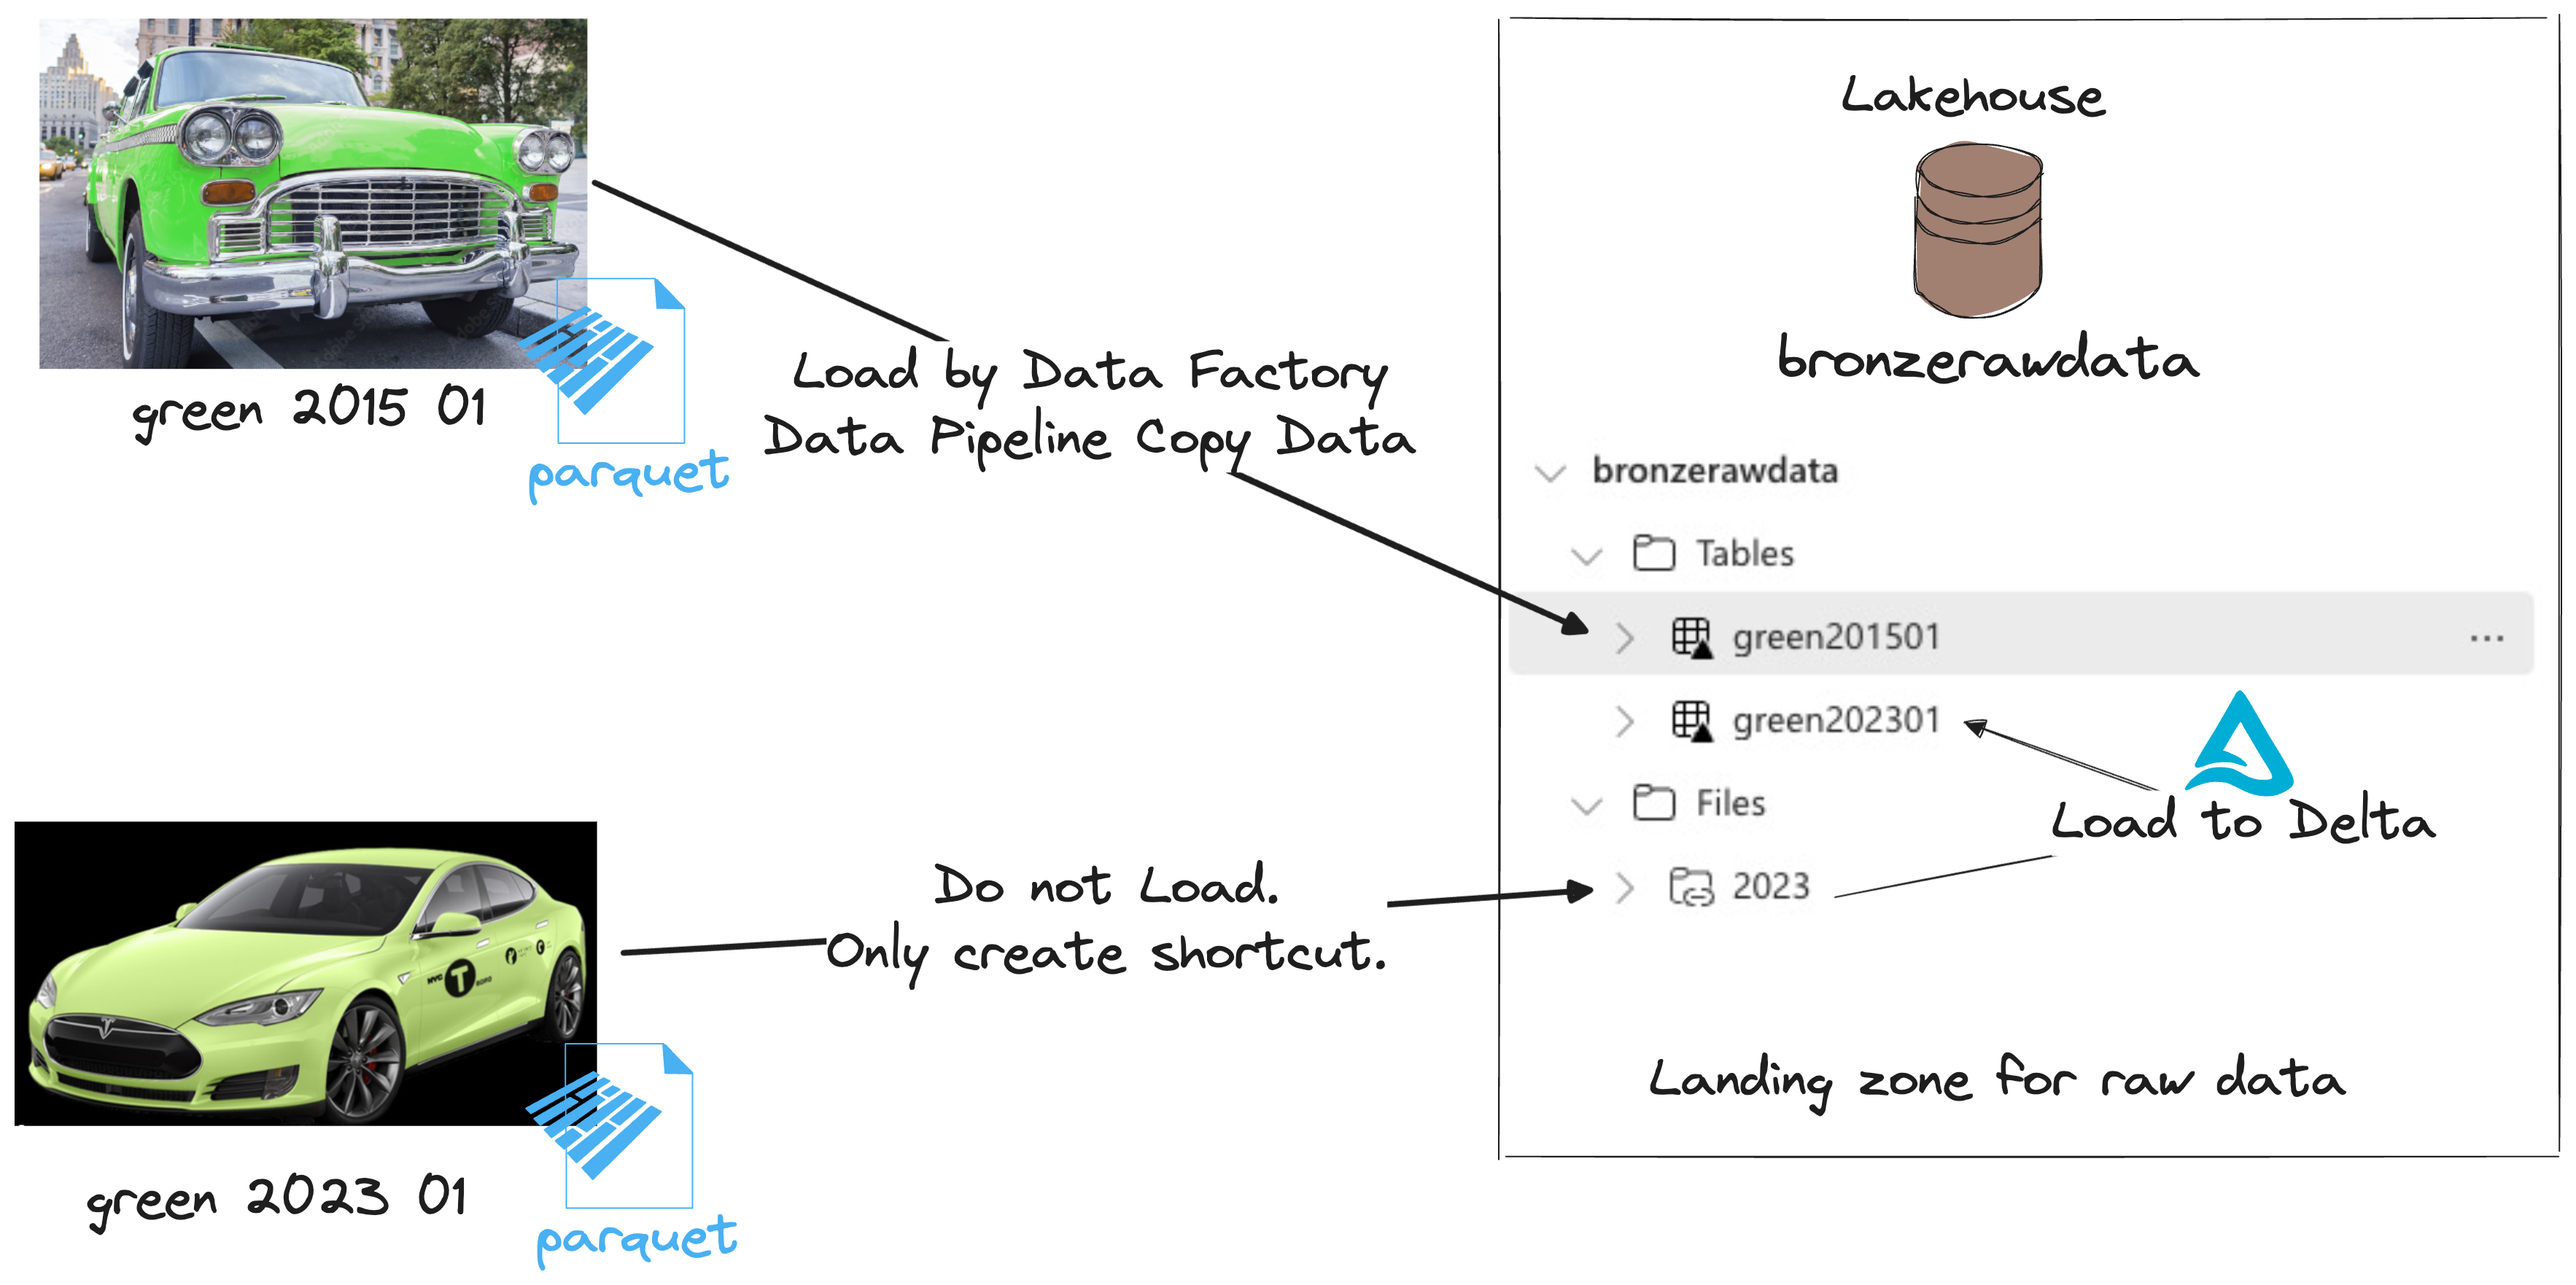
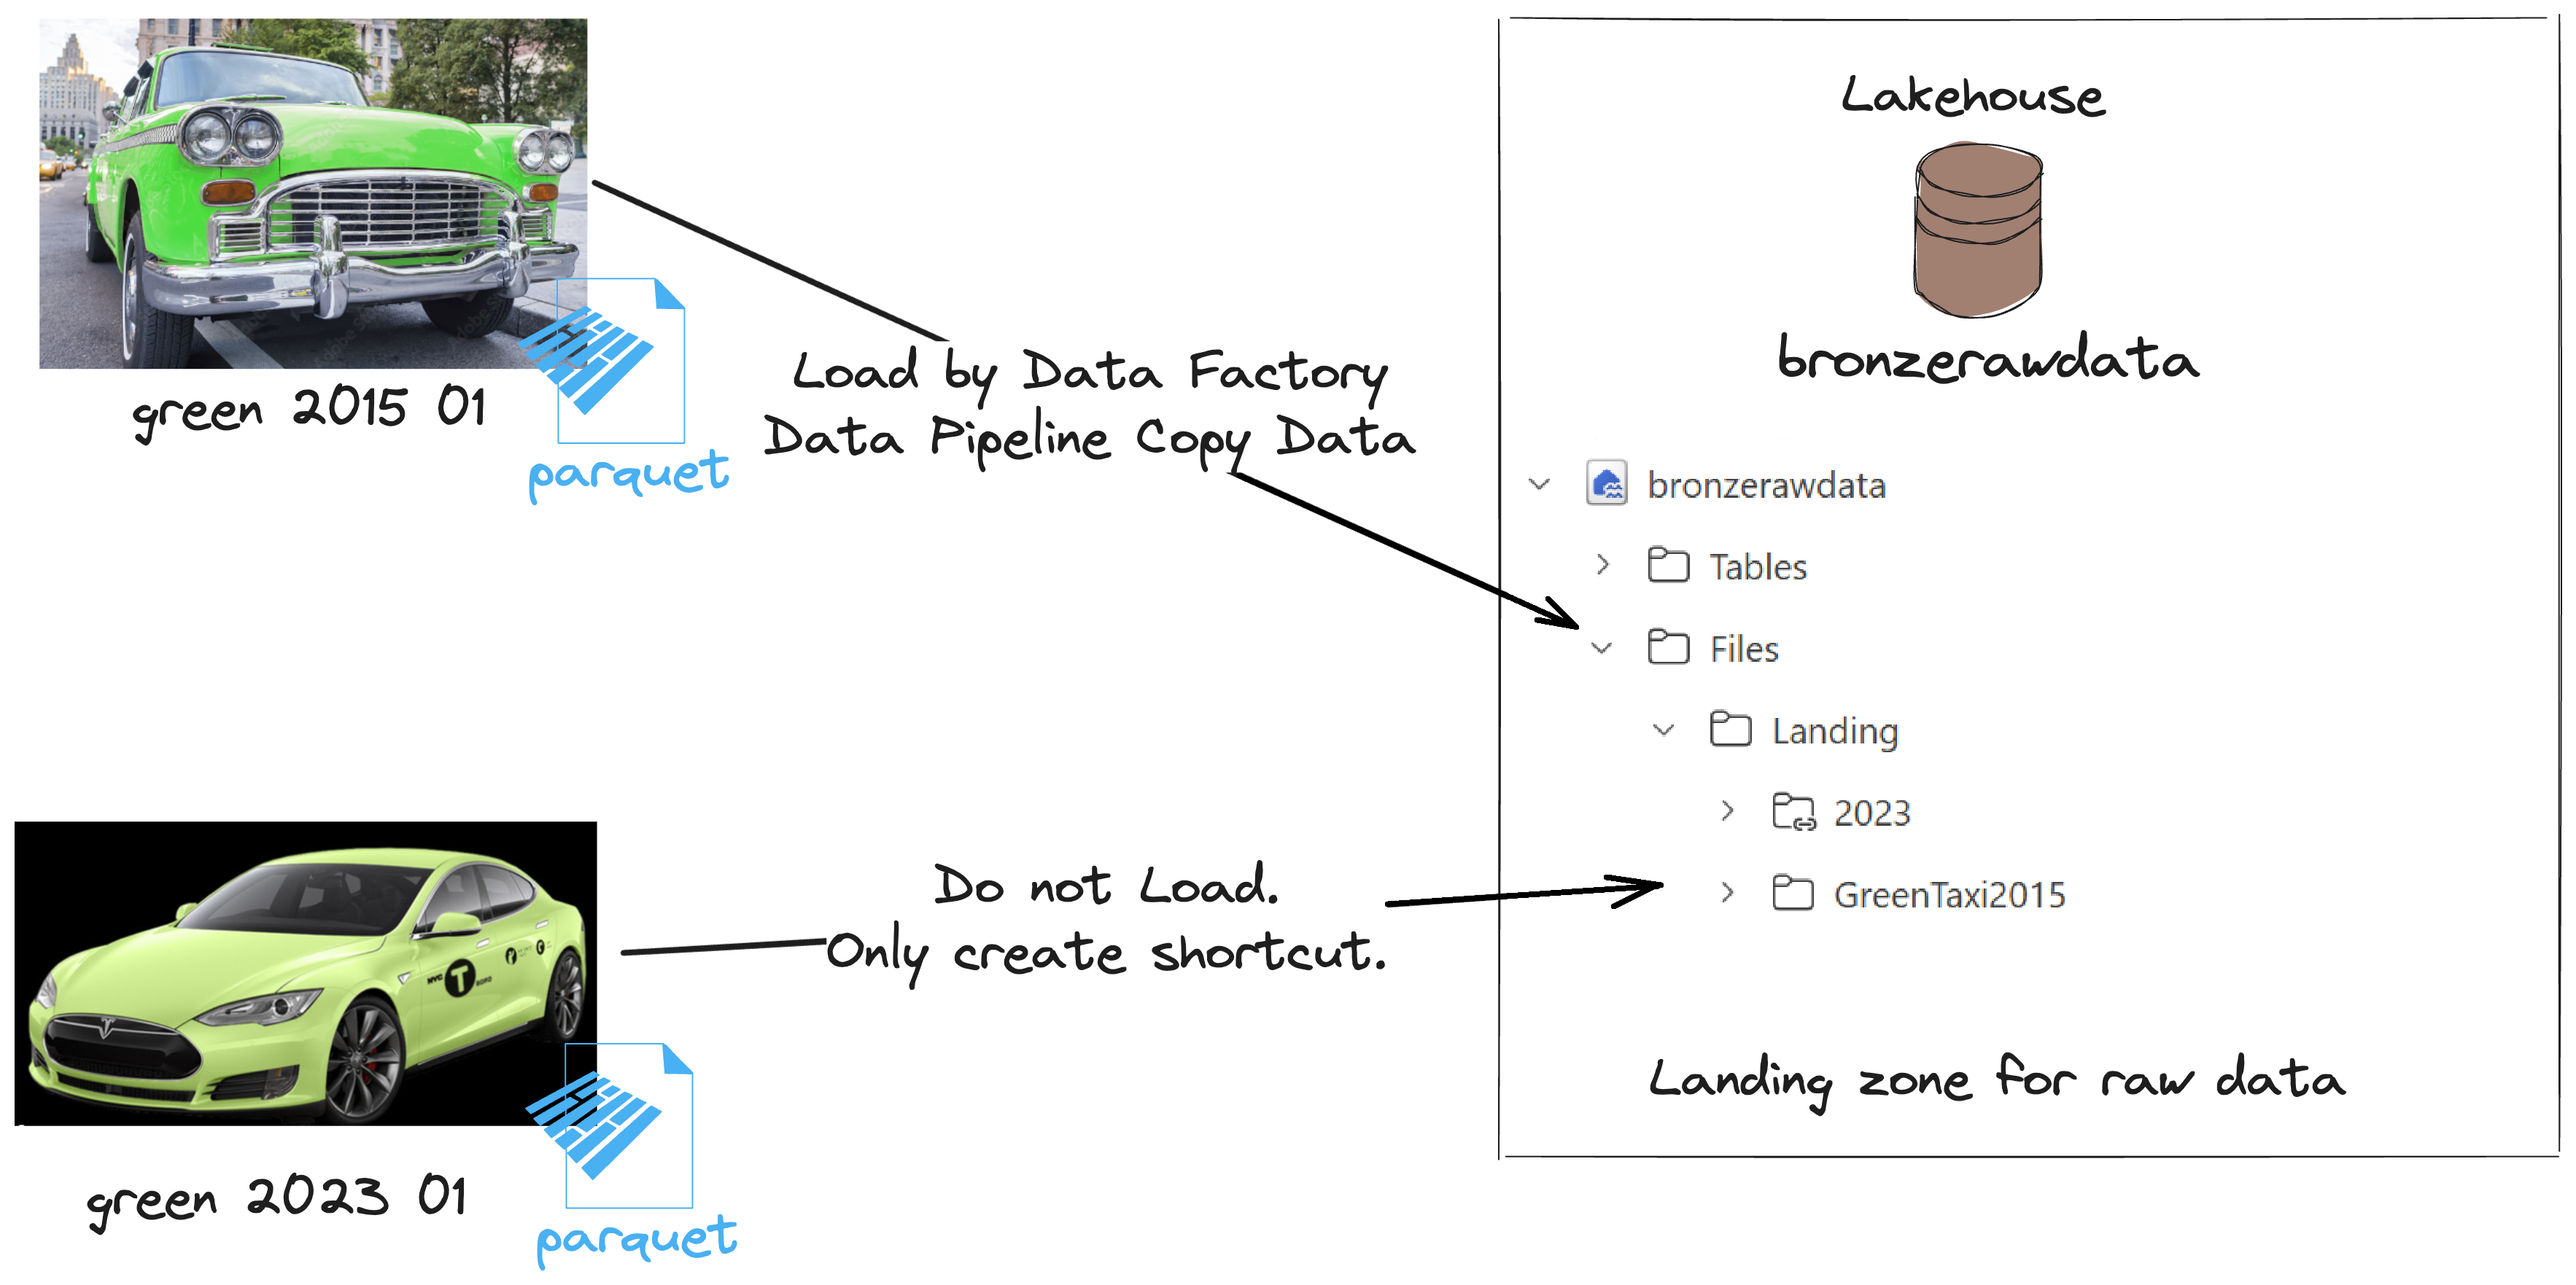
new adl and storage and no SAS anymore

diff --git a/challenges/ch02/README.md b/challenges/ch02/README.md
@@ -22,8 +22,8 @@ By the end of the challenge, you will have completed the first step, the bronze 
 
 - Create Pipeline: Ingest Green Taxi 2015
 	- With Copy Activity to Ingest Data:
-		- Source: Azure Blob Storage: https://stfabricmicrohacksw.blob.core.windows.net/ 
-			- Authentication kind Shared Access Signature (SAS): sv=2024-11-04&ss=b&srt=sco&sp=rlfx&se=2025-11-30T00:36:28Z&st=2025-10-06T15:21:28Z&spr=https&sig=AukZMGIOO%2BdjC%2BAbRmaNpGsg8jagziY0WimASjtiTZw%3D
+		- Source: Azure Blob Storage: https://stmsfabricmicrohacksw.blob.core.windows.net/
+			- Authentication kind: **Organizational account**
 			- File path: 
 				- Container: **taxidata**
 				- File: **green_tripdata_2015-01.parquet**
@@ -33,8 +33,8 @@ By the end of the challenge, you will have completed the first step, the bronze 
 			- Format: **Binary**
     
 - Create Shortcut in your Lakehouse into **Files > Landing** to **2023** Folder in Azure Data Lake Gen2: 
-	- https://adlstfabricmicrohacksw.dfs.core.windows.net/ 
-		- Authentication kind Shared Access Signature (SAS): sv=2024-11-04&ss=b&srt=sco&sp=rl&se=2025-11-30T00:38:39Z&st=2025-10-06T15:23:39Z&spr=https&sig=HCus0m0ysS3EU4MlOrcmdmc5KNYNNHxhUS1WvkR1hRc%3D
+	- https://adlstmsfabricmicrohacksw.dfs.core.windows.net/ 
+		- Authentication kind: **Organizational account**
 
 ## Success Criteria
 

diff --git a/challenges/ch05/README.md b/challenges/ch05/README.md
@@ -14,8 +14,9 @@ By the end of the challenge, you will have completed the implementation of the [
 ## Actions
 
 - Create the 3rd lakehouse: **goldcurated**
-- Create Shortcut in your Lakehouse into **Tables** to pre-created delta tables:  **dimLocations, dimpaymenttype, dimratecode, dimvendor** in Azure Data Lake Gen2: https://adlstfabricmicrohacksw.dfs.core.windows.net/
-	- SAS: sv=2024-11-04&ss=b&srt=sco&sp=rl&se=2025-11-30T00:38:39Z&st=2025-10-06T15:23:39Z&spr=https&sig=HCus0m0ysS3EU4MlOrcmdmc5KNYNNHxhUS1WvkR1hRc%3D
+- Create Shortcut in your Lakehouse into **Tables** area to pre-created delta tables:  **dimLocations, dimpaymenttype, dimratecode, dimvendor** in Azure Data Lake Gen2: 
+	- https://adlstmsfabricmicrohacksw.dfs.core.windows.net/ 
+		- Authentication kind: **Organizational account**
 - Import [**challenges/ch05/Transform silver to gold - Ch05.ipynb**](/challenges/ch05/Transform%20silver%20to%20gold%20-%20Ch05.ipynb) to you workspace and try to complete all Goals / Actions mentioned in notebook
 	- Remove origin lakehouses from Notebook and Add/attach your **silvercleansed** (as default) lakehouse and **goldcurated** lakehouse
 - Build Semantics model **GreenTaxi** based on 4 dimensions and 2 facts tables with Avg. function and relations

diff --git a/challenges/ch01/README.md b/challenges/ch01/README.md
@@ -10,7 +10,7 @@ In this challenge, you will prepare the Microsoft Fabric environment for the upc
 
 ## Actions
 
-- Deploy MS Fabric Capacity into pre-defined Resource Group "**rg-MicroHackFabric**" and **default Region (West US 3)**
+- Deploy MS Fabric Capacity into pre-defined Resource Group "**rg-MicroHackFabricCapacities**" and **default Region (West US 3)**
 	- Name: **yoursurname0fabric** with **size F4** 
 	- e.g. novak0fabric
 - Create Workspace in MS Fabric: **YourSurname NY Taxi Analysis [DEV]**
